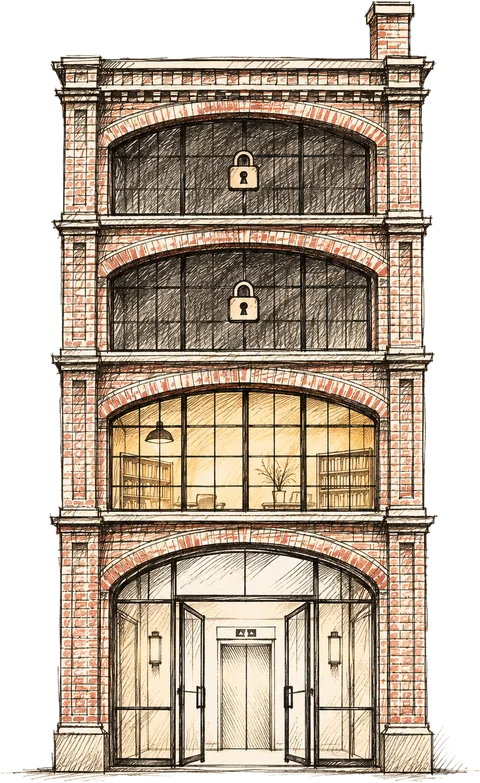
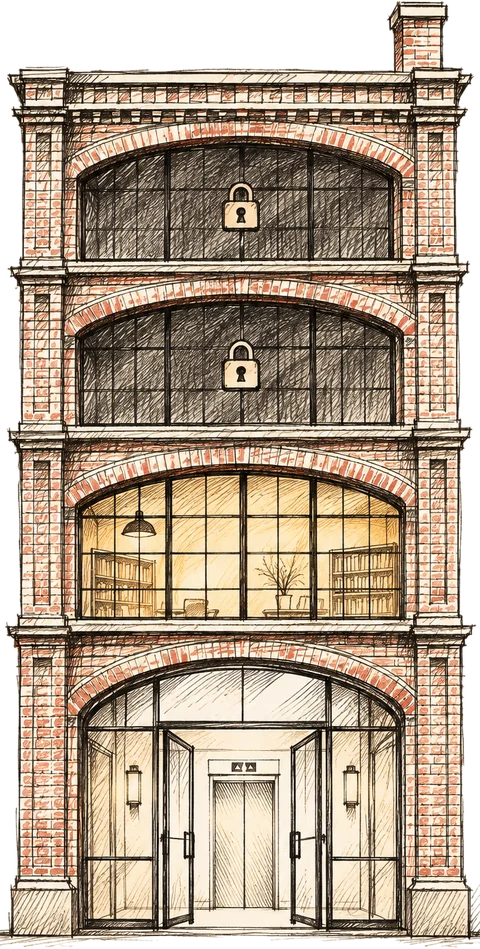
Das Haus: Skizze mittig, Beschriftung in Handschrift auf weicher Wolke
Claude-Session: https://claude.ai/code/session_013rF7JQzahHEKUPJ18ntepk

diff --git a/src/assets/css/site.css b/src/assets/css/site.css
@@ -680,3 +680,20 @@ a { color: inherit; }
 .hz-n1 { top: 61%; transform: translate(-50%, -50%) rotate(-2deg); font-size: 22px; }
 .hz-neg { top: 73.6%; transform: translate(-50%, -50%) rotate(1.5deg); }
 @media (max-width: 899px) { .hz-notiz { font-size: 16px; } .hz-n1 { font-size: 18px; } }
+/* Haus v3: mittig, ohne Schräglage, Beschriftung auf weicher Wolke, größer */
+.hz-f3 { top: 21.8%; } .hz-f2 { top: 40.4%; } .hz-f1 { top: 60.4%; } .hz-feg { top: 72.9%; }
+.haus-bild { max-width: 430px; }
+.haus-bild::before { content: ""; position: absolute; inset: 4% -14% -2%; background: radial-gradient(ellipse at 50% 60%, rgba(241,233,220,.9) 0%, rgba(249,246,239,.6) 45%, rgba(255,255,255,0) 72%); z-index: 0; }
+.haus-bild > img { position: relative; z-index: 1; }
+.haus-bild > .hz-notiz, .haus-bild > .hz-schild { z-index: 2; }
+.hz-notiz { background: radial-gradient(ellipse at center, rgba(251,246,236,.97) 0%, rgba(251,246,236,.92) 45%, rgba(251,246,236,0) 72%); padding: 14px 34px; font-size: 25px; display: flex; align-items: center; gap: 8px; }
+.hz-n3 { top: 25.4%; transform: translate(-50%, -50%); }
+.hz-n2 { top: 41.6%; transform: translate(-50%, -50%); }
+.hz-n1 { top: 57.5%; transform: translate(-50%, -50%); font-size: 28px; }
+.hz-n1 svg { width: 30px; height: 30px; flex: none; }
+.hz-neg { top: 73%; transform: translate(-50%, -50%); }
+@media (max-width: 899px) { .hz-notiz { font-size: 20px; padding: 10px 26px; } .hz-n1 { font-size: 22px; } .hz-n1 svg { width: 24px; height: 24px; } }
+.haus-bild { max-width: 380px; }
+.hz-notiz { font-size: 20px; padding: 12px 30px; background: radial-gradient(ellipse at center, rgba(251,246,236,1) 0%, rgba(251,246,236,.97) 50%, rgba(251,246,236,0) 74%); }
+.hz-n1 { font-size: 22px; } .hz-n1 svg { width: 24px; height: 24px; }
+@media (max-width: 899px) { .hz-notiz { font-size: 18px; } .hz-n1 { font-size: 20px; } }
